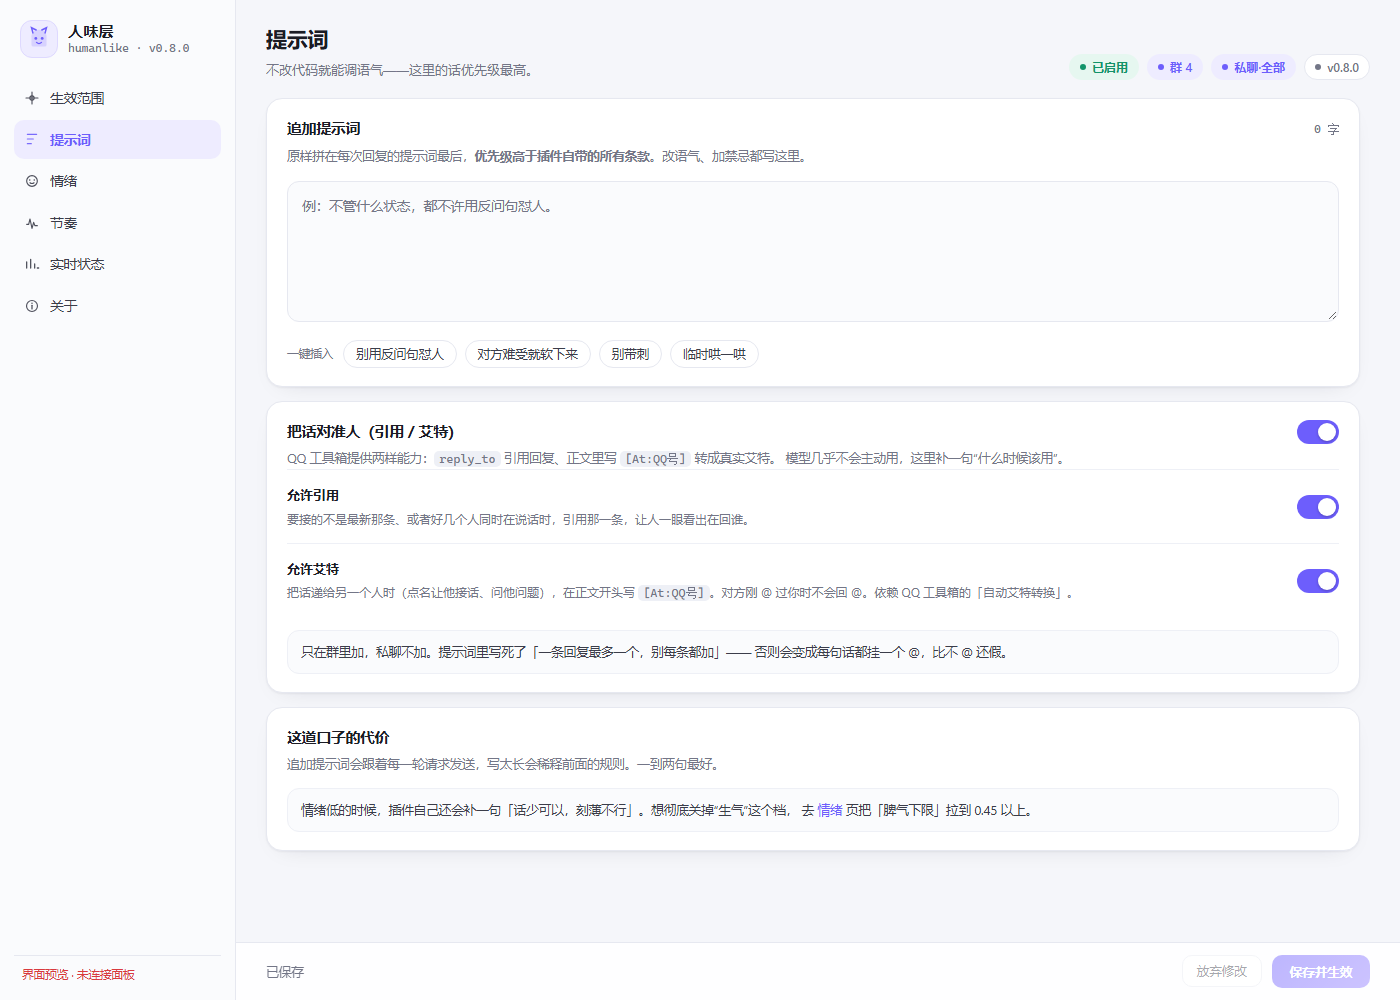
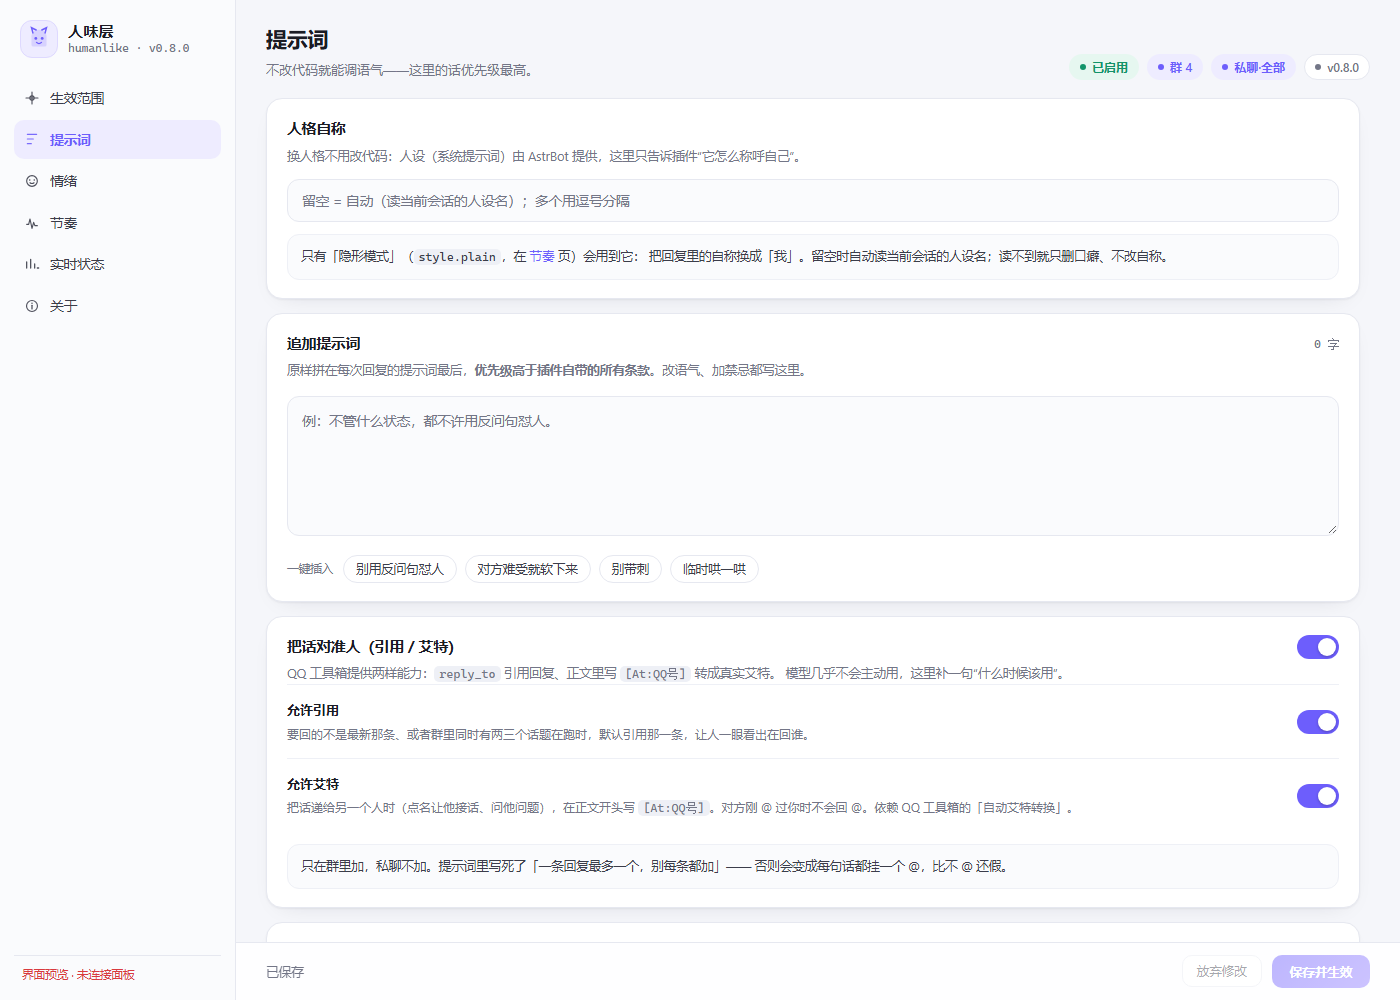
generalize: work with any persona (no hardcoded name), add persona_name + panel field

diff --git a/pages/dashboard/index.html b/pages/dashboard/index.html
@@ -3,7 +3,7 @@
 <head>
 <meta charset="utf-8">
 <meta name="viewport" content="width=device-width, initial-scale=1">
-<title>人味层 · 让叶铭像个人</title>
+<title>人味层 · 让 bot 像个人</title>
 <link rel="stylesheet" href="style.css">
 </head>
 <body>
@@ -56,7 +56,7 @@
     <header class="topbar">
       <div class="titles">
         <h1 id="pageTitle">生效范围</h1>
-        <p id="pageSub">决定叶铭在哪些群、哪些私聊里“有人的样子”。</p>
+        <p id="pageSub">决定 bot 在哪些群、哪些私聊里“有人的样子”。</p>
       </div>
       <div class="pills" id="statusPills"></div>
     </header>
@@ -67,7 +67,7 @@
       <section class="tab is-active" data-panel="scope">
         <div class="card">
           <div class="card-head">
-            <div><h2>总开关</h2><p>关掉后所有改动都不生效，叶铭回到“有问必答”的样子。</p></div>
+            <div><h2>总开关</h2><p>关掉后所有改动都不生效，bot 回到“有问必答”的样子。</p></div>
             <label class="switch"><input type="checkbox" data-path="enable"><span class="track"></span></label>
           </div>
         </div>
@@ -100,13 +100,25 @@
             <li><b>回不回</b>：不归这个插件管。要不要开口由上游（AstrBot 本身、Proactive Chat、angel_heart）决定，人味层只接管已经生成好的那条回复。</li>
             <li><b>群里</b>：把话压短，需要时用引用 / 艾特指向具体的人，被夸被骂会换语气。</li>
             <li><b>私聊</b>：只做提示词、形态和节奏，不 @ 也不引用。</li>
-            <li><b>移出白名单</b>：立刻退回普通模式——还是叶铭的人格，只是不再有人的节奏和情绪。</li>
+            <li><b>移出白名单</b>：立刻退回普通模式——还是原来的人格，只是不再有人的节奏和情绪。</li>
           </ul>
         </div>
       </section>
 
       <!-- ───────── 提示词 ───────── -->
       <section class="tab" data-panel="prompt">
+        <div class="card">
+          <div class="card-head">
+            <div><h2>人格自称</h2><p>换人格不用改代码：人设（系统提示词）由 AstrBot 提供，这里只告诉插件“它怎么称呼自己”。</p></div>
+          </div>
+          <input class="text-input" type="text" data-path="persona_name"
+            placeholder="留空 = 自动（读当前会话的人设名）；多个用逗号分隔">
+          <div class="note">
+            只有「隐形模式」（<code>style.plain</code>，在 <a href="#" data-goto="rhythm">节奏</a> 页）会用到它：
+            把回复里的自称换成「我」。留空时自动读当前会话的人设名；读不到就只删口癖、不改自称。
+          </div>
+        </div>
+
         <div class="card">
           <div class="card-head">
             <div><h2>追加提示词</h2><p>原样拼在每次回复的提示词最后，<b>优先级高于插件自带的所有条款</b>。改语气、加禁忌都写这里。</p></div>
@@ -132,7 +144,7 @@
           </div>
 
           <div class="row">
-            <div class="row-txt"><b>允许引用</b><p>要接的不是最新那条、或者好几个人同时在说话时，引用那一条，让人一眼看出在回谁。</p></div>
+            <div class="row-txt"><b>允许引用</b><p>要回的不是最新那条、或者群里同时有两三个话题在跑时，默认引用那一条，让人一眼看出在回谁。</p></div>
             <label class="switch"><input type="checkbox" data-path="tools.reply_quote"><span class="track"></span></label>
           </div>
 
@@ -405,7 +417,7 @@
       <section class="tab" data-panel="about">
         <div class="card">
           <div class="card-head"><div><h2>人味层 · astrbot_plugin_humanlike</h2>
-            <p>不改“回不回”，只改“怎么说、说多快、什么语气”。要不要开口交给上游，插件接的是已经生成好的那条回复。人格仍然由 AstrBot 的叶铭提供。</p></div></div>
+            <p>不改“回不回”，只改“怎么说、说多快、什么语气”。要不要开口交给上游，插件接的是已经生成好的那条回复。人格仍然由 AstrBot 的人设（或系统提示词）提供。</p></div></div>
           <dl class="kv">
             <div><dt>版本</dt><dd data-bind="version">–</dd></div>
             <div><dt>仓库</dt><dd><a href="https://github.com/Leaveing00001/astrbot_plugin_humanlike" target="_blank" rel="noreferrer">Leaveing00001/astrbot_plugin_humanlike</a></dd></div>

diff --git a/pages/dashboard/style.css b/pages/dashboard/style.css
@@ -225,6 +225,16 @@ textarea {
 textarea:focus { outline: 0; border-color: var(--accent); box-shadow: 0 0 0 3px var(--accent-soft); background: var(--panel); }
 textarea::placeholder { color: var(--muted); }
 
+/* ── 单行文本输入 ───────────────────────────────── */
+.text-input {
+  width: 100%; margin-top: 12px; padding: 10px 14px;
+  border-radius: 12px; border: 1px solid var(--line);
+  background: var(--panel-2); color: var(--text);
+  font: inherit; font-size: 13.5px;
+}
+.text-input:focus { outline: 0; border-color: var(--accent); box-shadow: 0 0 0 3px var(--accent-soft); background: var(--panel); }
+.text-input::placeholder { color: var(--muted); }
+
 .examples { display: flex; flex-wrap: wrap; gap: 8px; align-items: center; margin-top: 12px; }
 .ex-label { font-size: 11.5px; color: var(--muted); margin-right: 2px; }
 .chip-btn {

diff --git a/pages/dashboard/app.js b/pages/dashboard/app.js
@@ -17,6 +17,7 @@
       private_enable: true,
       private_users: "",
       prompt_extra: "",
+      persona_name: "",
       style: { max_chars: 20, target_chars: 10, split_prob: 0.4 },
       timing: {
         enable: true, fast_reply_prob: 0.2, settle_min: 0.3, settle_max: 1.8,
@@ -149,7 +150,7 @@
   }
 
   const TAB_META = {
-    scope: ["生效范围", "决定叶铭在哪些群、哪些私聊里“有人的样子”。"],
+    scope: ["生效范围", "决定 bot 在哪些群、哪些私聊里“有人的样子”。"],
     prompt: ["提示词", "不改代码就能调语气——这里的话优先级最高。"],
     mood: ["情绪", "活力、情绪、脾气三条轴；基线决定“平时是什么样”。"],
     rhythm: ["节奏", "完整回复到手之后，决定这条是秒回还是停一下。"],

diff --git a/main.py b/main.py
@@ -1,4 +1,4 @@
-"""astrbot_plugin_humanlike —— 给叶铭加一层"人味"。
+"""astrbot_plugin_humanlike —— 给任意人格加一层"人味"。
 
 目标不是让机器人更聪明，而是让它更像群里的一个真人：
 它会有反应时间、会有心情、会把话说短、会在生气时话少。
@@ -15,8 +15,9 @@
 angel_heart 等）决定——本插件不再看门、不再插话、也不再抢话，只在上游已经
 生成出完整回复之后动手，管它「发多久、说多短、什么语气」。
 
-人格本身仍由 AstrBot 的「叶铭（认主）」提供，本插件只改「怎么说」，
-不改「是谁」。
+人格由 AstrBot 的人设（或系统提示词）提供，本插件只改「怎么说」，不改「是谁」。
+**插件不假设人格叫什么**：唯一用到名字的地方是「隐形模式」把自称换成「我」，
+名字取自 `persona_name`，留空就自动读当前会话的人设名。
 """
 
 from __future__ import annotations
@@ -77,7 +78,7 @@ _RE_AT_LEAD = re.compile(r"^(\[At:\d{4,12}\][\s\u200b]*)")
 _RE_AT_TRUNC = re.compile(r"\[At:?[^\]]*$")
 
 # 上游出错时 AstrBot 会把错误文本当回复发出来。下面这些开头一出现，
-# 就说明这条不是叶铭说的话，而是给运维看的——拦下来写日志，别让群友看见。
+# 就说明这条不是这个角色说的话，而是给运维看的——拦下来写日志，别让群友看见。
 _ERROR_HEADS = (
     "LLM 响应错误",
     "LLM 请求失败",
@@ -1309,7 +1310,10 @@ class HumanLikePlugin(Star):
             umo = str(event.unified_msg_origin or "")
             sess = self._session(umo)
 
-            cleaned = self._sanitize(original)
+            cleaned = self._sanitize(
+                original,
+                await self._self_names(event) if self._cb("style.plain", False) else (),
+            )
             tease = self._tease_kind(sess)
 
             # 四道硬保险：改不了"生成"，但可以拦下"不该发出去的那句"
@@ -1415,7 +1419,36 @@ class HumanLikePlugin(Star):
         out = "".join(kept) if kept else sentences[0]
         return _RE_AI_LEAD.sub("", out.strip())
 
-    def _sanitize(self, text: str) -> str:
+    async def _self_names(self, event: AstrMessageEvent) -> tuple[str, ...]:
+        """这个会话里它该被怎么称呼：配置优先，否则读当前会话的人设名。
+
+        只在「隐形模式」把自称换成「我」时用得到，所以取不到也不算错——
+        插件其余部分完全不依赖人格叫什么。
+        """
+        raw = str(self._c("persona_name", "") or "")
+        names = [n.strip() for n in re.split(r"[,，、\s]+", raw) if n.strip()]
+
+        if not names:
+            try:
+                pm = getattr(self.context, "persona_manager", None)
+                if pm is not None:
+                    persona = await pm.get_default_persona_v3(
+                        getattr(event, "unified_msg_origin", None)
+                    )
+                    name = str((persona or {}).get("name") or "").strip()
+                    if name:
+                        names.append(name)
+                        # 「阿岚（认主）」这种带后缀的，本体也一起换
+                        head = re.split(r"[（(]", name)[0].strip()
+                        if head and head != name:
+                            names.append(head)
+            except Exception as e:
+                logger.debug(f"[humanlike] 读人设名失败（不影响其他层）: {e}")
+
+        # 长的先换，免得短名先吃掉长名的一部分
+        return tuple(sorted(set(names), key=len, reverse=True))
+
+    def _sanitize(self, text: str, self_names: tuple[str, ...] = ()) -> str:
         t = (text or "").strip()
         if not t:
             return ""
@@ -1445,7 +1478,8 @@ class HumanLikePlugin(Star):
 
         if self._cb("style.plain", False):
             # 「隐形模式」：去掉口癖，改成普通人类打字
-            t = t.replace("叶铭", "我")
+            for name in self_names:
+                t = t.replace(name, "我")
             t = re.sub(r"[～~]+", "", t)
             t = re.sub(r"…+", "", t)
             t = re.sub(r"\.{3,}", "", t)

diff --git a/tests/test_offline.py b/tests/test_offline.py
@@ -279,6 +279,33 @@ check("不再有 _is_follow_up", not hasattr(plugin, "_is_follow_up"))
 check("不再有 human_gate 钩子", not hasattr(plugin, "human_gate"))
 check("不再有 _silence", not hasattr(plugin, "_silence"))
 
+# 3.15 换人格：插件不写死名字，隐形模式按配置 / 人设名替换自称
+plugin.config["style"]["plain"] = True
+plugin.config["persona_name"] = "阿岚"
+s_name = plugin._sanitize("阿岚觉得可以", ("阿岚",))
+check("隐形模式把自称换成「我」", s_name == "我觉得可以", repr(s_name))
+
+s_noname = plugin._sanitize("阿岚觉得可以", ())
+check("没给名字时不乱替换", s_noname.startswith("阿岚"), repr(s_noname))
+
+plugin.config["style"]["plain"] = False
+plugin.config["persona_name"] = ""
+s_plain_off = plugin._sanitize("阿岚觉得可以", ("阿岚",))
+check("关掉隐形模式后连名字都不动", s_plain_off.startswith("阿岚"), repr(s_plain_off))
+
+plugin.config["persona_name"] = "阿岚, 小岚"
+names_cfg = asyncio.run(plugin._self_names(FakeEvent("在吗")))
+check("配置里的多个名字都解析出来",
+      set(names_cfg) == {"阿岚", "小岚"}, str(names_cfg))
+
+plugin.config["persona_name"] = ""
+check("没有配置、也读不到 context 时安全返回空",
+      asyncio.run(plugin._self_names(FakeEvent("在吗"))) == ())
+
+# 代码里不该再出现具体人格名
+_main_src = PLUGIN_MAIN.read_text(encoding="utf-8")
+check("main.py 里没有写死人格名", "叶铭" not in _main_src)
+
 # ── 5. 提示词契约 ────────────────────────────────────────
 plugin.config["style"]["split_prob"] = 0.35
 ev = FakeEvent("来不来，周末开黑")
